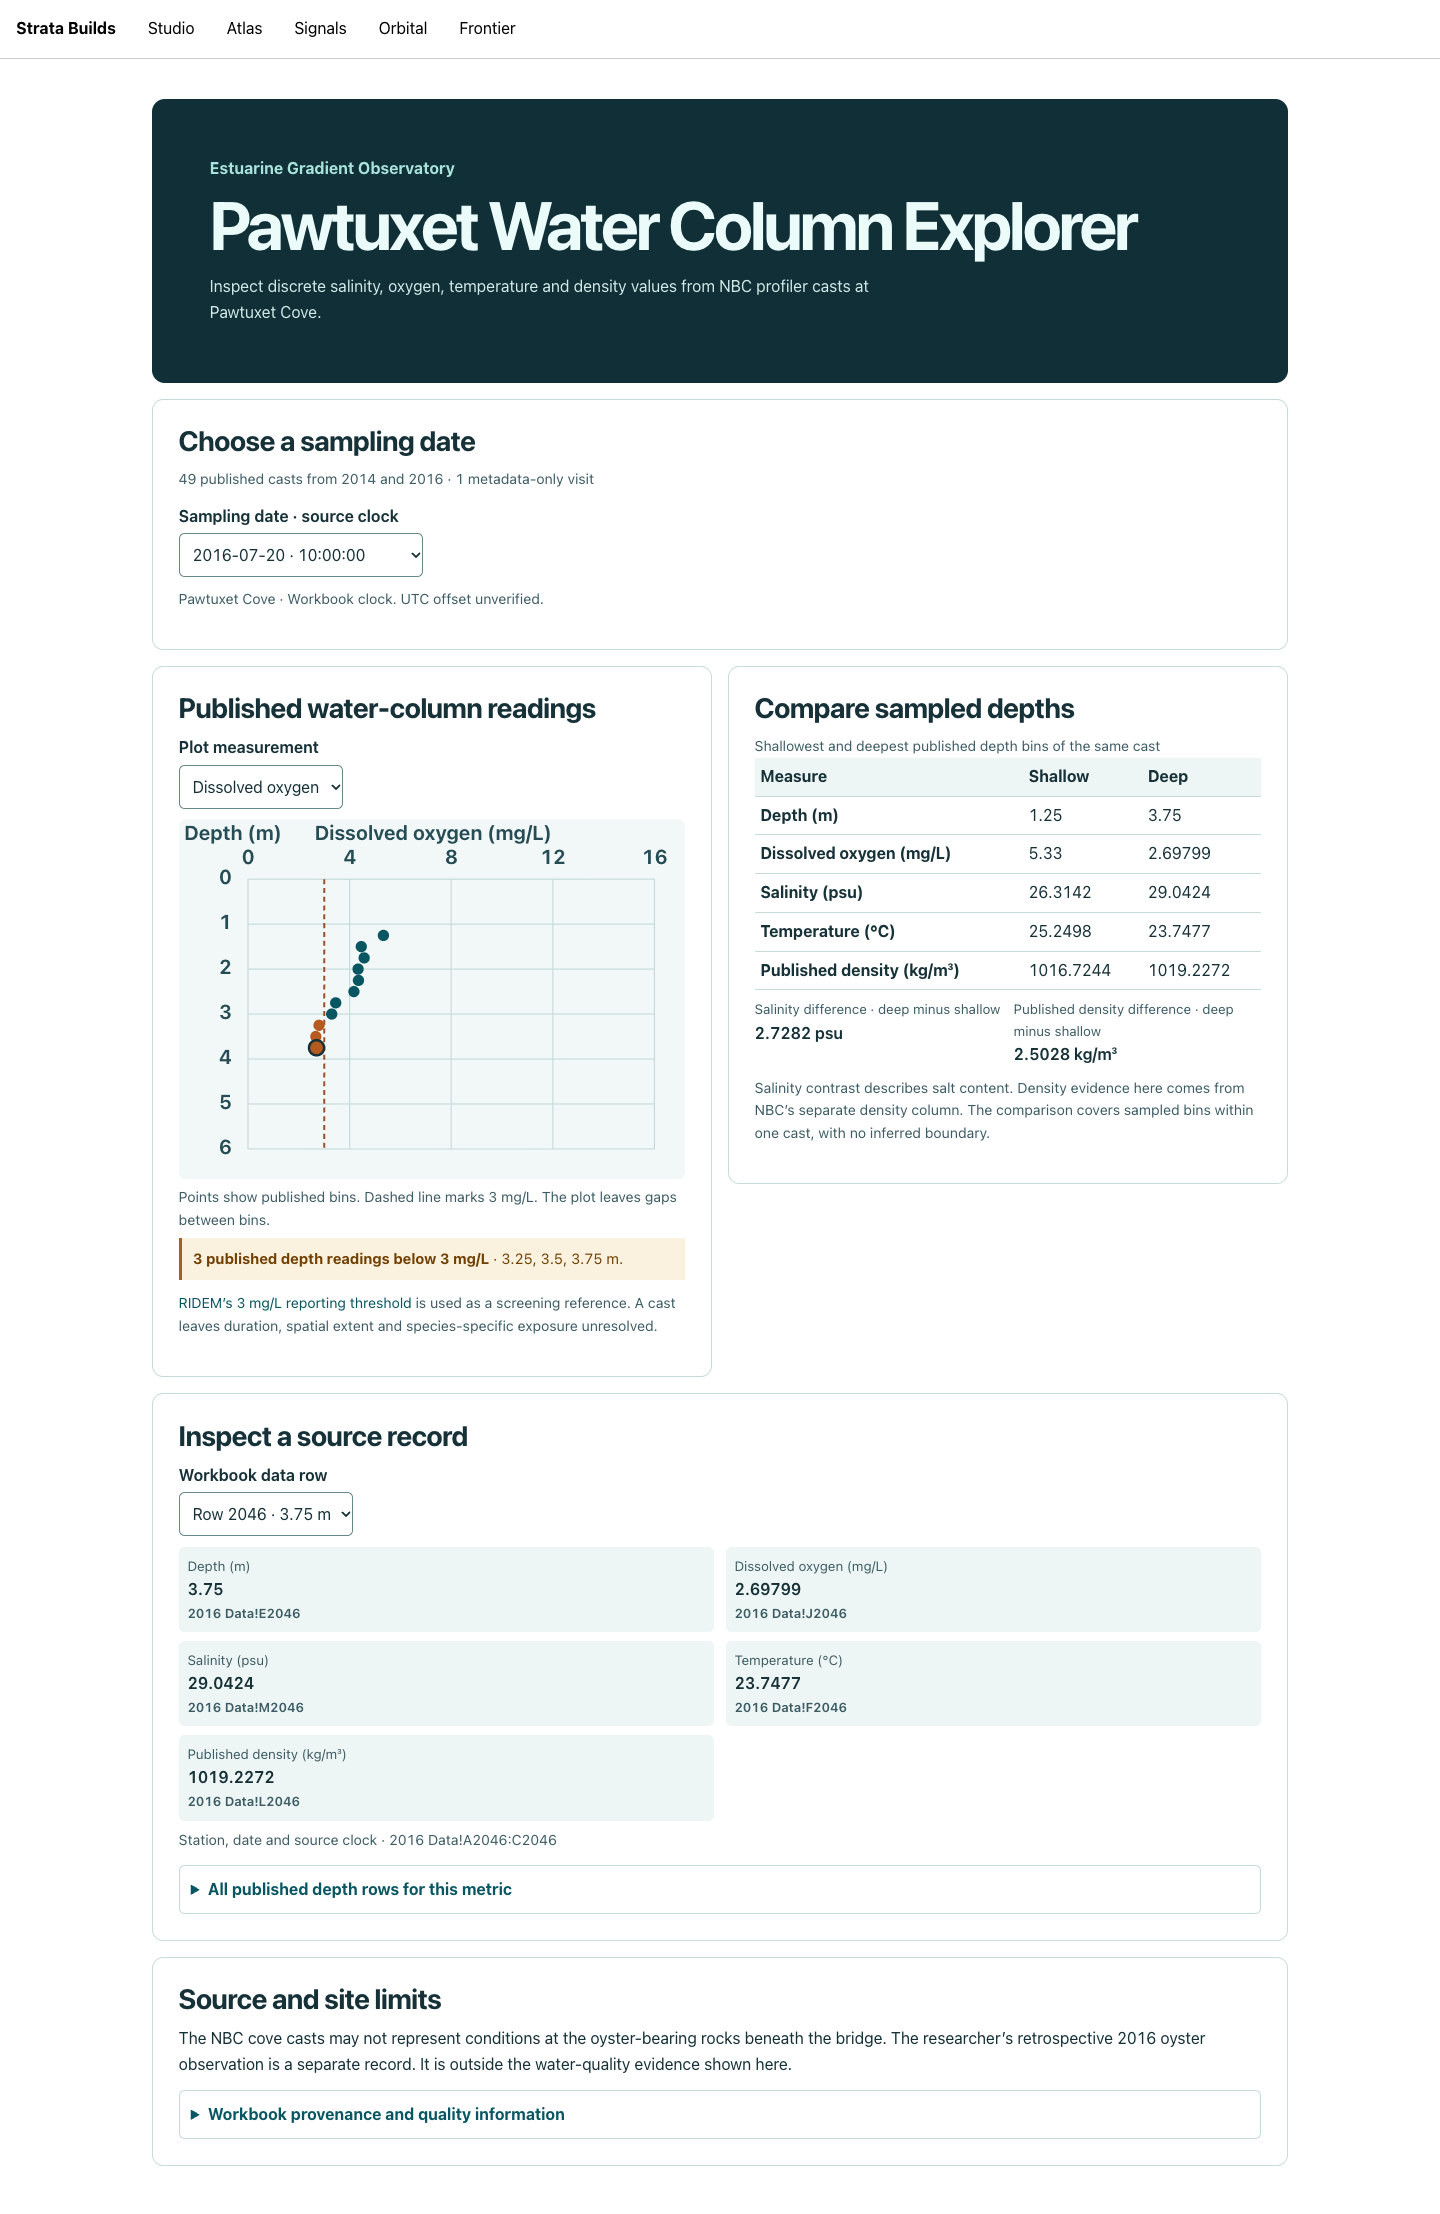
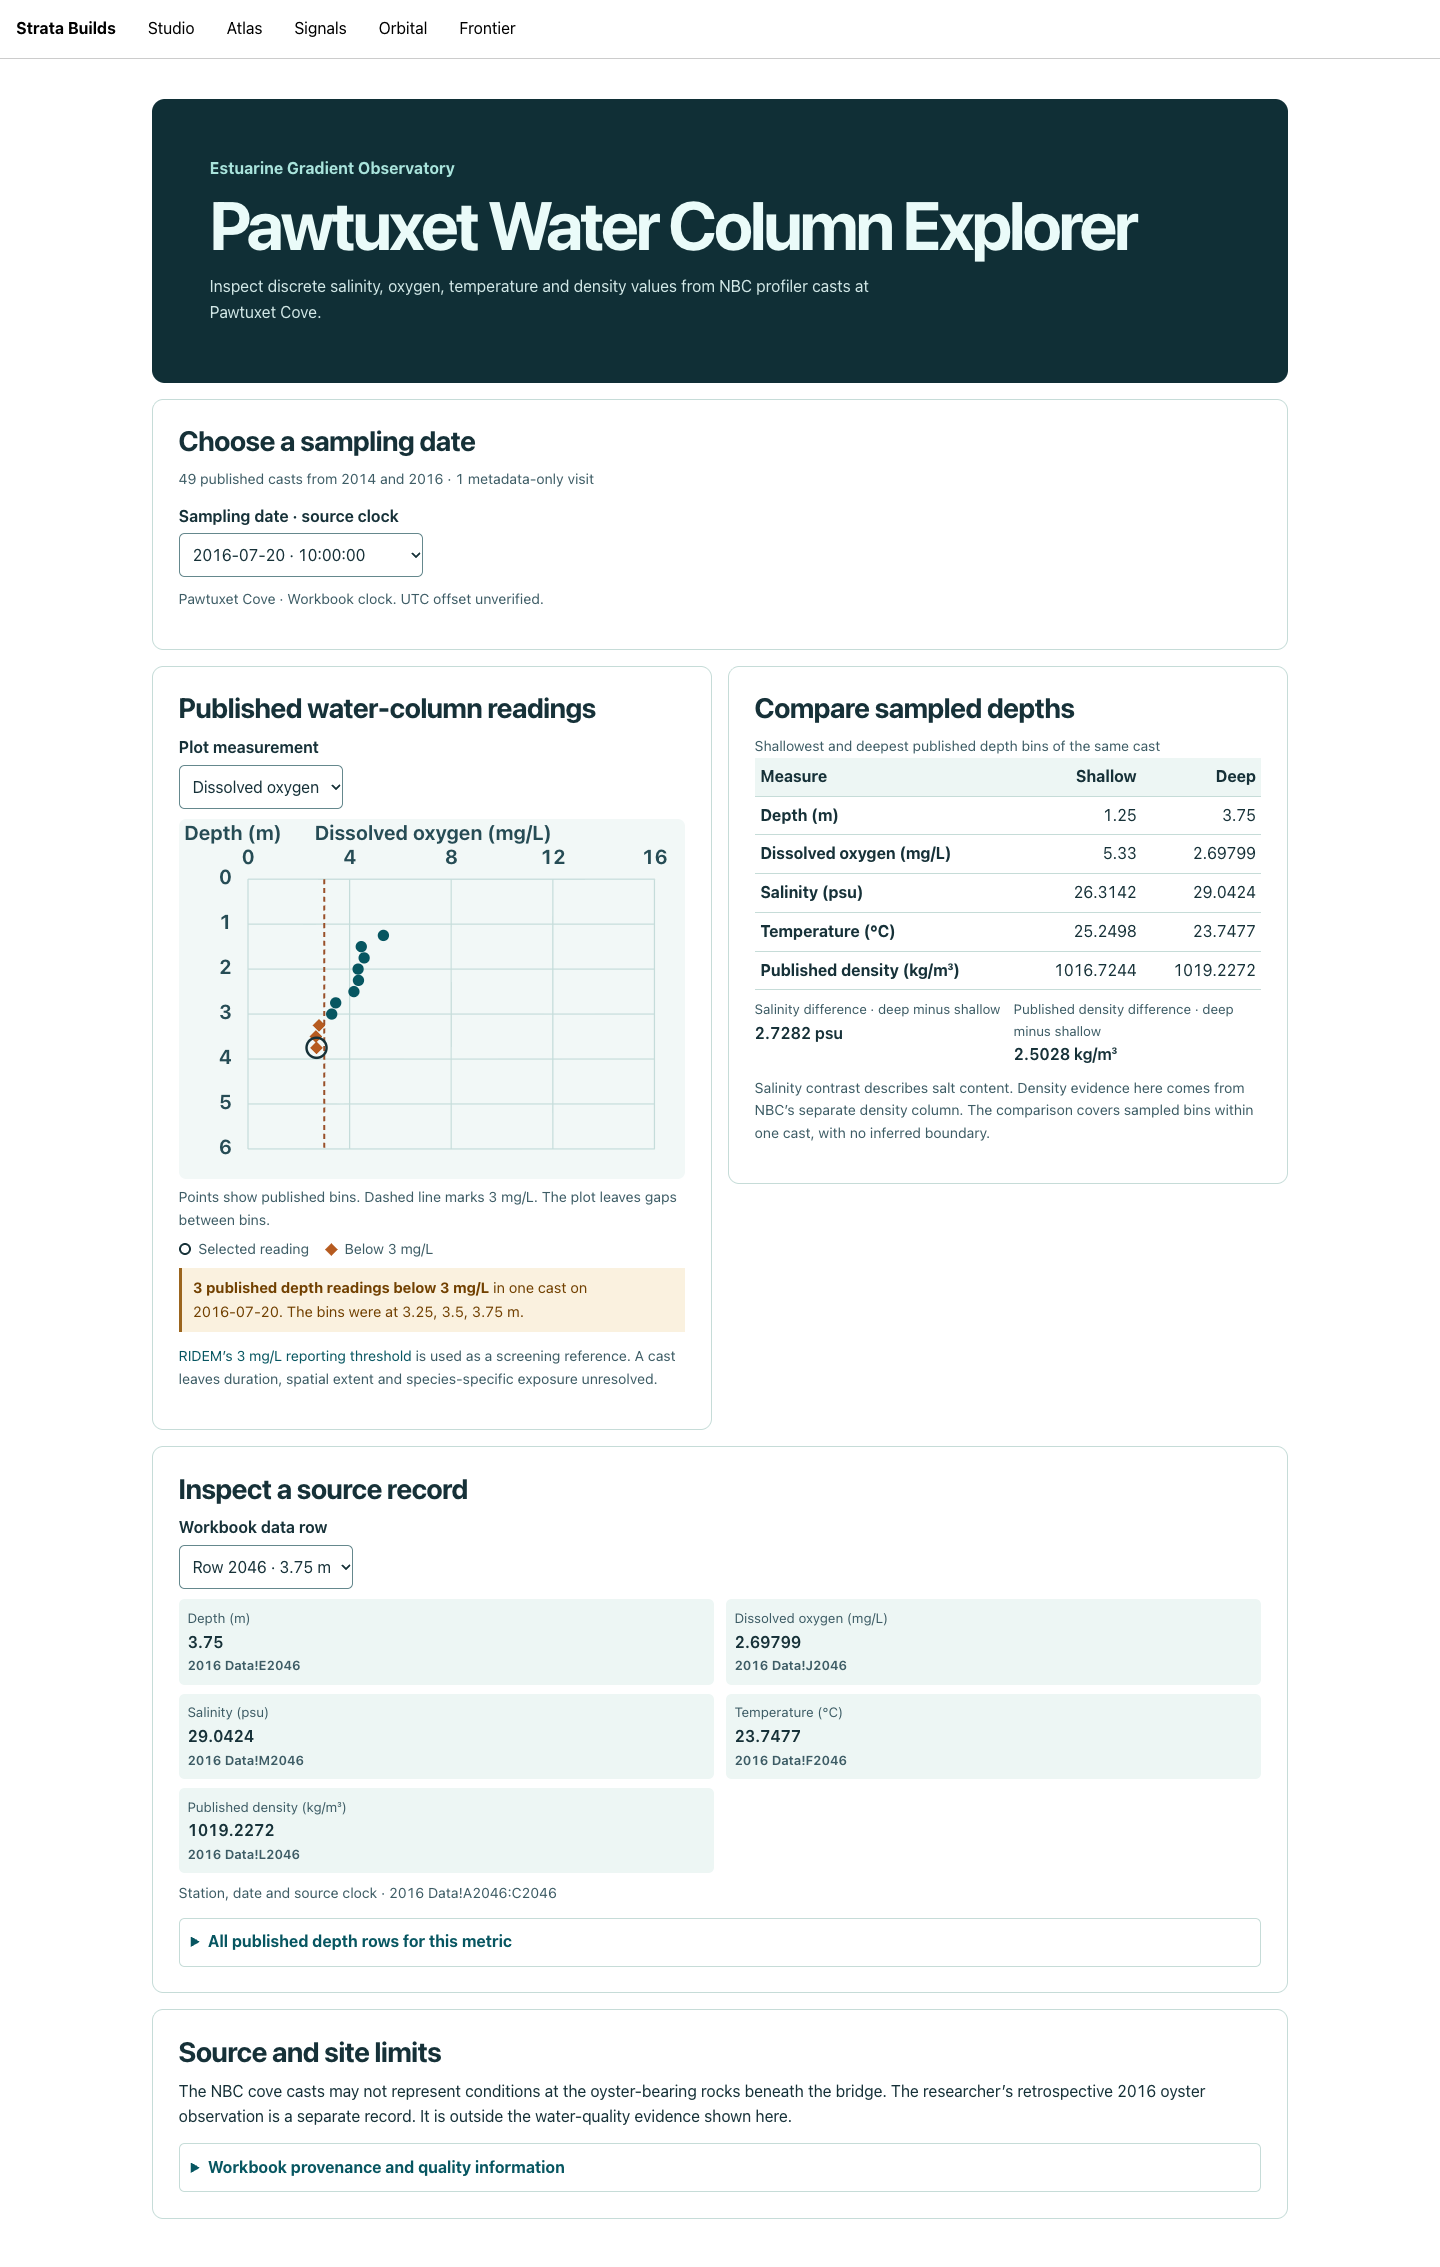
STRATA-008: Polish Pawtuxet cast readability

diff --git a/src/features/oceanography/pawtuxet/profile-plot.tsx b/src/features/oceanography/pawtuxet/profile-plot.tsx
@@ -22,12 +22,17 @@ export function ProfilePlot({ records, metric, selectedRow, lowRows }: {
   const bottom = 263;
   const x = (value: number) => left + (value - ticks[0]) / (ticks[ticks.length - 1] - ticks[0]) * (right - left);
   const y = (depth: number) => top + depth / 6 * (bottom - top);
+  const selected = records.find(({ row }) => row === selectedRow);
+  const selectedDepth = selected?.depth ?? null;
+  const selectedValue = selected?.[metric] ?? null;
 
   return (
     <figure className={styles.plot}>
       <svg viewBox="0 0 404 287" role="img" aria-labelledby="pawtuxet-plot-title pawtuxet-plot-description">
         <title id="pawtuxet-plot-title">{`${title.label} by published depth`}</title>
-        <desc id="pawtuxet-plot-description">Separate points represent published depth bins. Depth increases downward. Use the source record selector and depth table for the values.</desc>
+        <desc id="pawtuxet-plot-description">
+          {`Separate points represent published depth bins. Depth increases downward. A ring marks the selected reading. ${metric === 'oxygen' ? 'Diamonds mark readings below 3 mg/L. ' : ''}Use the source record selector and depth table for the values.`}
+        </desc>
         <text x="108" y="17">{`${title.label} (${title.units})`}</text>
         <text x="4" y="17">Depth (m)</text>
         {ticks.map((tick) => (
@@ -47,15 +52,28 @@ export function ProfilePlot({ records, metric, selectedRow, lowRows }: {
           const value = record[metric];
           if (!isNumber(record.depth) || !isNumber(value)) return null;
           const low = metric === 'oxygen' && lowRows.includes(record);
+          const pointX = x(value);
+          const pointY = y(record.depth);
           return (
-            <circle key={record.row} cx={x(value)} cy={y(record.depth)} r={selectedRow === record.row ? 6 : 4.5}
-              className={`${low ? styles.lowPoint : styles.point} ${selectedRow === record.row ? styles.selectedPoint : ''}`}>
+            <g key={record.row} data-reading-row={record.row}>
               <title>{`Row ${record.row} · ${value} ${title.units} at ${record.depth} m`}</title>
-            </circle>
+              {low
+                ? <path d={`M ${pointX} ${pointY - 5} l 5 5 -5 5 -5 -5 Z`} className={styles.lowPoint} />
+                : <circle cx={pointX} cy={pointY} r="4.5" className={styles.point} />}
+            </g>
           );
         })}
+        {isNumber(selectedDepth) && isNumber(selectedValue) && (
+          <circle cx={x(selectedValue)} cy={y(selectedDepth)} r="8" className={styles.selectedPoint} aria-hidden="true" />
+        )}
       </svg>
-      <figcaption>Points show published bins. {metric === 'oxygen' && 'Dashed line marks 3 mg/L. '}The plot leaves gaps between bins.</figcaption>
+      <figcaption>
+        Points show published bins. {metric === 'oxygen' && 'Dashed line marks 3 mg/L. '}The plot leaves gaps between bins.
+        <ul className={styles.plotKey}>
+          <li><span className={styles.selectedKey} aria-hidden="true" />Selected reading</li>
+          {metric === 'oxygen' && <li><span className={styles.lowKey} aria-hidden="true" />Below 3 mg/L</li>}
+        </ul>
+      </figcaption>
     </figure>
   );
 }

diff --git a/src/features/oceanography/pawtuxet/explorer.tsx b/src/features/oceanography/pawtuxet/explorer.tsx
@@ -74,14 +74,17 @@ export function PawtuxetExplorer() {
             <ProfilePlot records={cast.records} metric={metric} selectedRow={selected?.row} lowRows={lowRows} />
             {repeated && <p className={styles.archiveNote}>Repeated depth labels are retained as separate source rows. A repeated endpoint is excluded from the depth comparison.</p>}
             {lowRows.length > 0
-              ? <p className={styles.archiveNote}><strong>{lowRows.length} published depth readings below 3 mg/L</strong> · {lowRows.map(({ depth }) => depth).join(', ')} m.</p>
+              ? <p className={styles.archiveNote}>
+                  <strong>{lowRows.length} published depth readings below 3 mg/L</strong> in one cast on <time dateTime={cast.date} className={styles.castDate}>{cast.date}</time>.
+                  {' '}The bins were at {lowRows.map(({ depth }) => depth).join(', ')} m.
+                </p>
               : <p className={common.quiet}>{oxygenAssessable ? 'No unique-depth reading in this cast falls below 3 mg/L.' : 'Oxygen screening is unavailable for this cast.'}</p>}
             <p className={common.quiet}><a href={oxygenReference}>RIDEM’s 3 mg/L reporting threshold</a> is used as a screening reference. A cast leaves duration, spatial extent and species-specific exposure unresolved.</p>
           </section>
 
           <section className={common.panel} aria-labelledby="pair-heading">
             <header className={common.panelHeader}><h2 id="pair-heading">Compare sampled depths</h2></header>
-            <table className={common.table}>
+            <table className={`${common.table} ${styles.comparison}`}>
               <caption>Shallowest and deepest published depth bins of the same cast</caption>
               <thead><tr><th scope="col">Measure</th><th scope="col">Shallow</th><th scope="col">Deep</th></tr></thead>
               <tbody>

diff --git a/src/features/oceanography/pawtuxet/pawtuxet.module.css b/src/features/oceanography/pawtuxet/pawtuxet.module.css
@@ -26,6 +26,10 @@
   font-size: 0.92rem;
 }
 
+.castDate {
+  white-space: nowrap;
+}
+
 .plot svg {
   background: #f2f8f7;
 }
@@ -55,8 +59,49 @@
 }
 
 .selectedPoint {
+  fill: none;
   stroke: #163138;
   stroke-width: 2;
+  pointer-events: none;
+}
+
+.plotKey {
+  display: flex;
+  flex-wrap: wrap;
+  gap: 0.3rem 1rem;
+  list-style: none;
+  padding: 0;
+  margin: 0.4rem 0 0;
+}
+
+.plotKey li {
+  display: inline-flex;
+  align-items: center;
+  gap: 0.45rem;
+}
+
+.selectedKey {
+  width: 0.78rem;
+  height: 0.78rem;
+  border: 2px solid #163138;
+  border-radius: 50%;
+}
+
+.lowKey {
+  width: 0.55rem;
+  height: 0.55rem;
+  margin-inline: 0.11rem;
+  background: #b65b20;
+  transform: rotate(45deg);
+}
+
+.page .comparison :is(th[scope='col']:not(:first-child), td) {
+  text-align: right;
+}
+
+.comparison td {
+  white-space: nowrap;
+  overflow-wrap: normal;
 }
 
 .recordValues {
@@ -72,5 +117,9 @@
 @media (max-width: 720px) {
   .grid {
     grid-template-columns: minmax(0, 1fr);
+  }
+
+  .plot text {
+    font-size: 18px;
   }
 }
